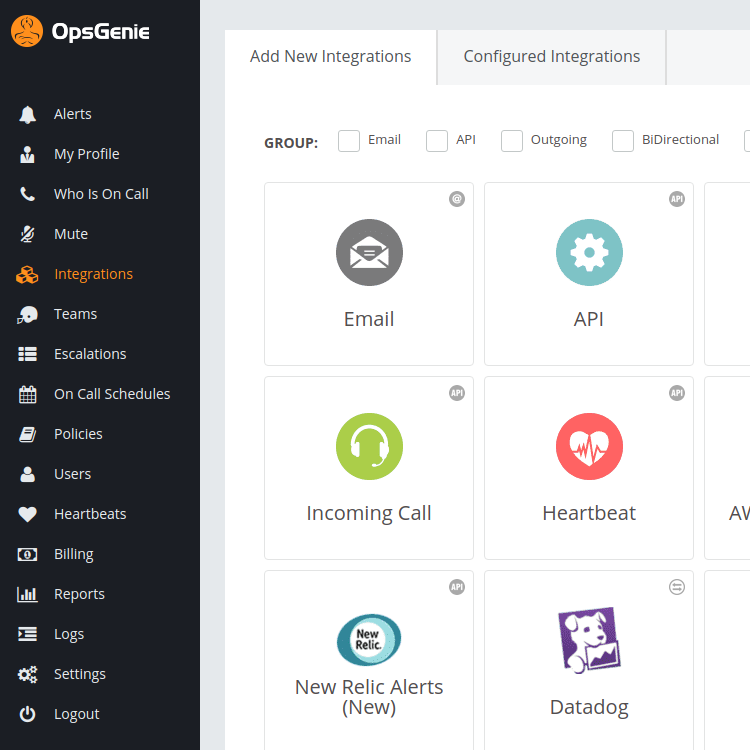
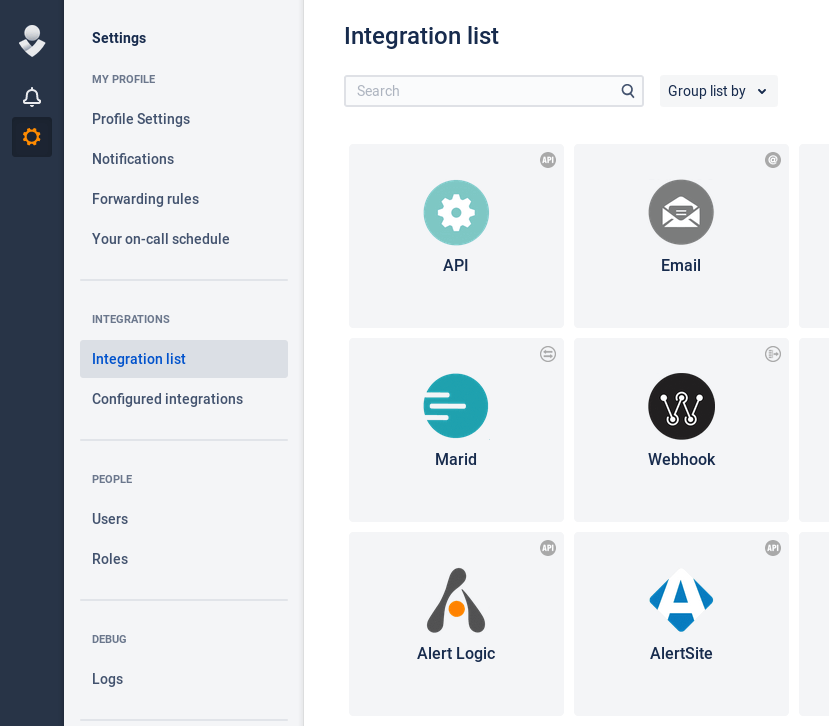
Update OpsGenie screenshots.

diff --git a/templates/integrations/add_opsgenie.html b/templates/integrations/add_opsgenie.html
@@ -20,11 +20,11 @@
             <span class="step-no">1</span>
             <p>
                 Log into your OpsGenie account,
-                go to <strong>Integrations &gt; Add New Integrations</strong>,
-                and add the "API" integration.
+                go to <strong>Settings &gt; Integration list</strong>,
+                and add a new "API" integration.
             </p>
             <p>
-                Give it a descriptive name, then
+                Give it a descriptive name, select its team, then
                 save the integration.
             </p>
 
@@ -40,7 +40,7 @@
         <div class="col-sm-6">
             <span class="step-no">2</span>
             After adding the new integration, take note of its
-            <strong>API key</strong>, a long string
+            <strong>API Key</strong>, a long string
             of letters and digits.
 
         </div>
@@ -55,8 +55,10 @@
     <div class="row ai-step">
         <div class="col-sm-6">
             <span class="step-no">3</span>
-            <p>Paste the API key down below. Save the integration, and
-            you are done!</p>
+            <p>Paste the API Key down below, and make sure the correct
+                <strong>service region</strong> is selected.
+                Save the integration, and you are done!
+            </p>
         </div>
     </div>
 
